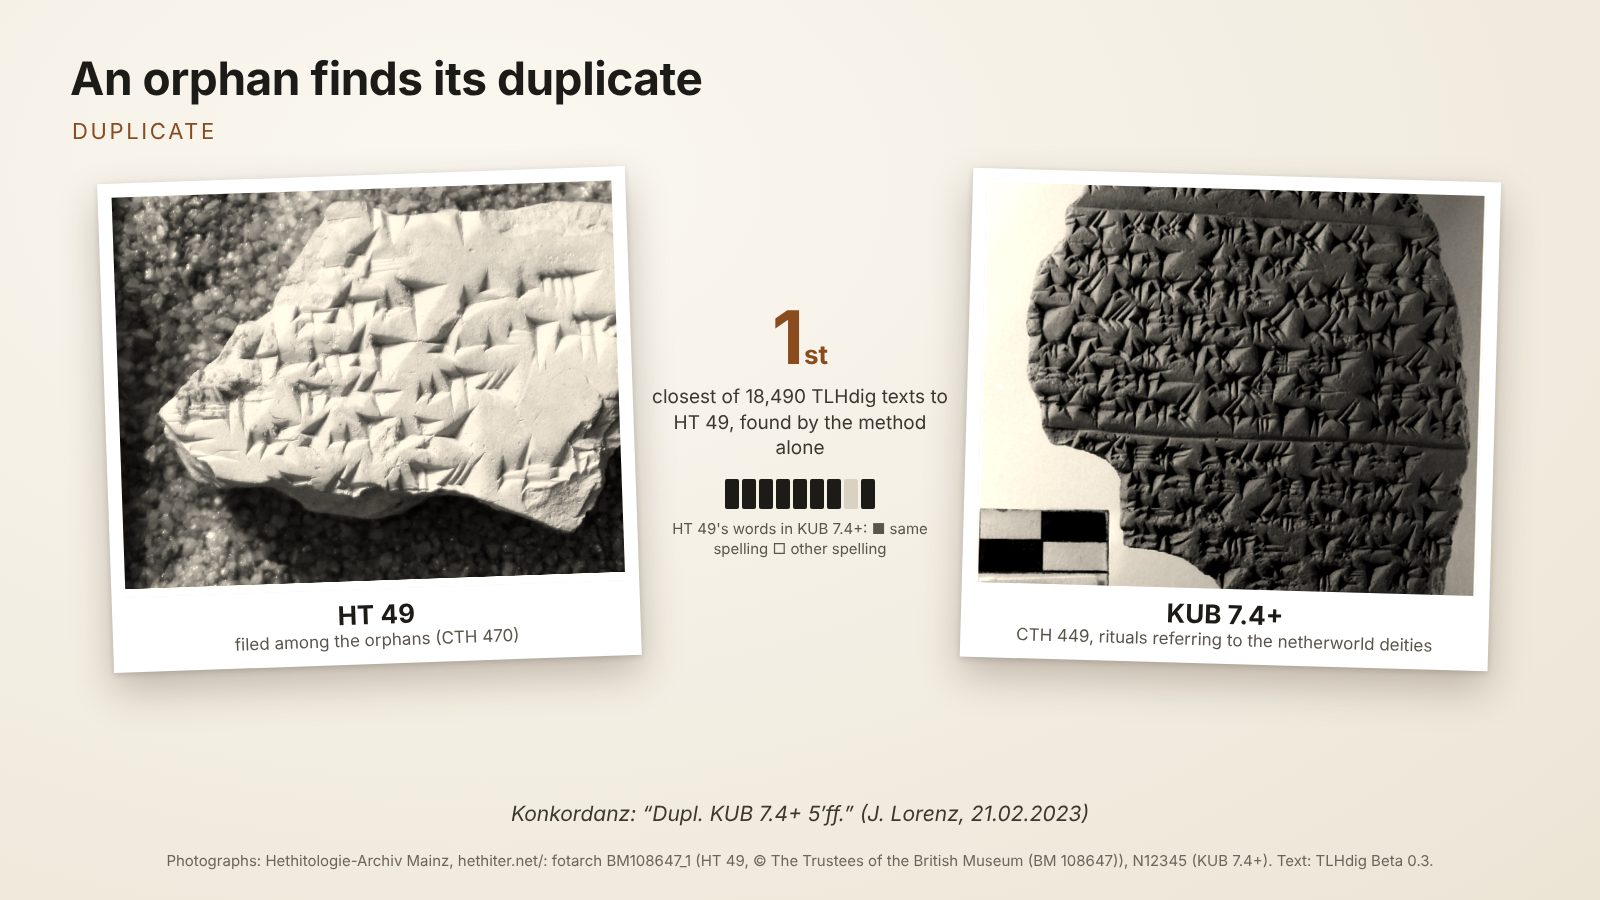
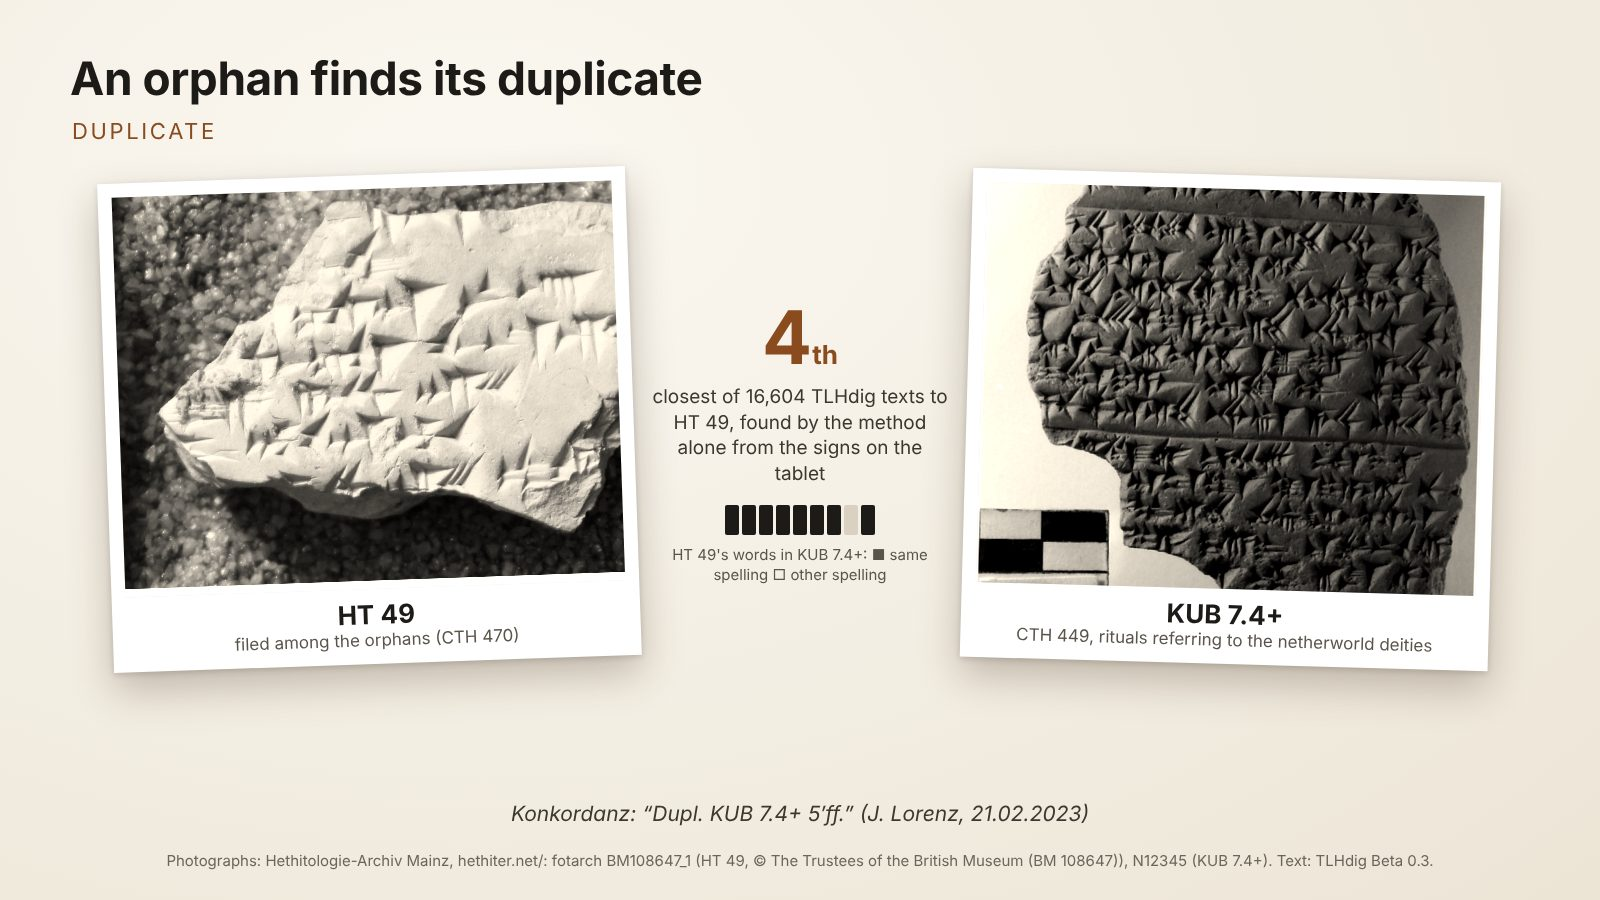
Carousel collages and About figures from version C
Collages use the C known-joins ranks (HT 49 4th, KBo 38.290 2nd, KBo 45.111
1st of 16,604); the KBo 59.124 join slide is dropped (rank 18 in C). About
gives C first, A for comparison, and says why A's duplicate figures are partly
circular.

Claude-Session: https://claude.ai/code/session_01RmsCBGp8ksh8J8aac8pDDU

Changed region(s): [[0.4062, 0.4356, 0.5938, 0.6533], [0.4688, 0.3422, 0.5312, 0.4044], [0.5312, 0.4356, 0.5625, 0.4667]]

diff --git a/about.html b/about.html
@@ -20,9 +20,9 @@
 
   <h2>How far to trust it</h2>
   <ul>
-    <li>Placements: 84% of the reference manuscripts are placed in their own tradition when held out; the margin is set so that placed fragments are right about 80% of the time. Fragments under about 8 words are rarely placed reliably.</li>
+    <li>Placements: counting only the signs on the tablet (version C), 82% of the reference manuscripts are placed in their own tradition when held out (84% with the editors' restorations, version A); the margin is set so that placed fragments are right about 80% of the time. Fragments under about 8 words are rarely placed reliably.</li>
     <li>When more than half of a placement rests on words every tradition shares (nu, -ma, the sign a), it is right much less often; the tool warns about these, and the settings let you treat them as unplaced.</li>
-    <li>Duplicates: for 212 duplicates the Konkordanz records for fragments of the Laroche bins (CTH 390–470, 500, 670, 832), the known duplicate is the single closest of 18,490 texts in 91 cases, among the closest five in 141 and among the closest twenty in 165 (median rank 2). For the 11 proposed joins with a separately edited partner, the partner is among the closest twenty in 3; pieces of one tablet that join rarely share text, so a join needs the photographs and the find data.</li>
+    <li>Duplicates: the Konkordanz records duplicates for fragments of the Laroche bins (CTH 390–470, 500, 670, 832). Counting only the signs on the tablet (version C), for 180 such pairs the known duplicate is the single closest of 16,604 texts in 60 cases, among the closest five in 86 and among the closest twenty in 109 (median rank 8). With the editors' restorations (version A) the figures look better (212 pairs; 91, 141 and 165; median rank 2), but editors often restore a fragment from its duplicate, so part of that agreement is circular. For the 11 proposed joins with a separately edited partner, the partner is among the closest twenty in 1 (C); pieces of one tablet that join rarely share text, so a join needs the photographs and the find data.</li>
     <li>The settings "words only", "spellings only", "logograms only" and "phonetic only" are for exploring. The thresholds above were calibrated on words and spellings together, so with other settings the tool shows what is nearest but gives no verdict.</li>
   </ul>
 
